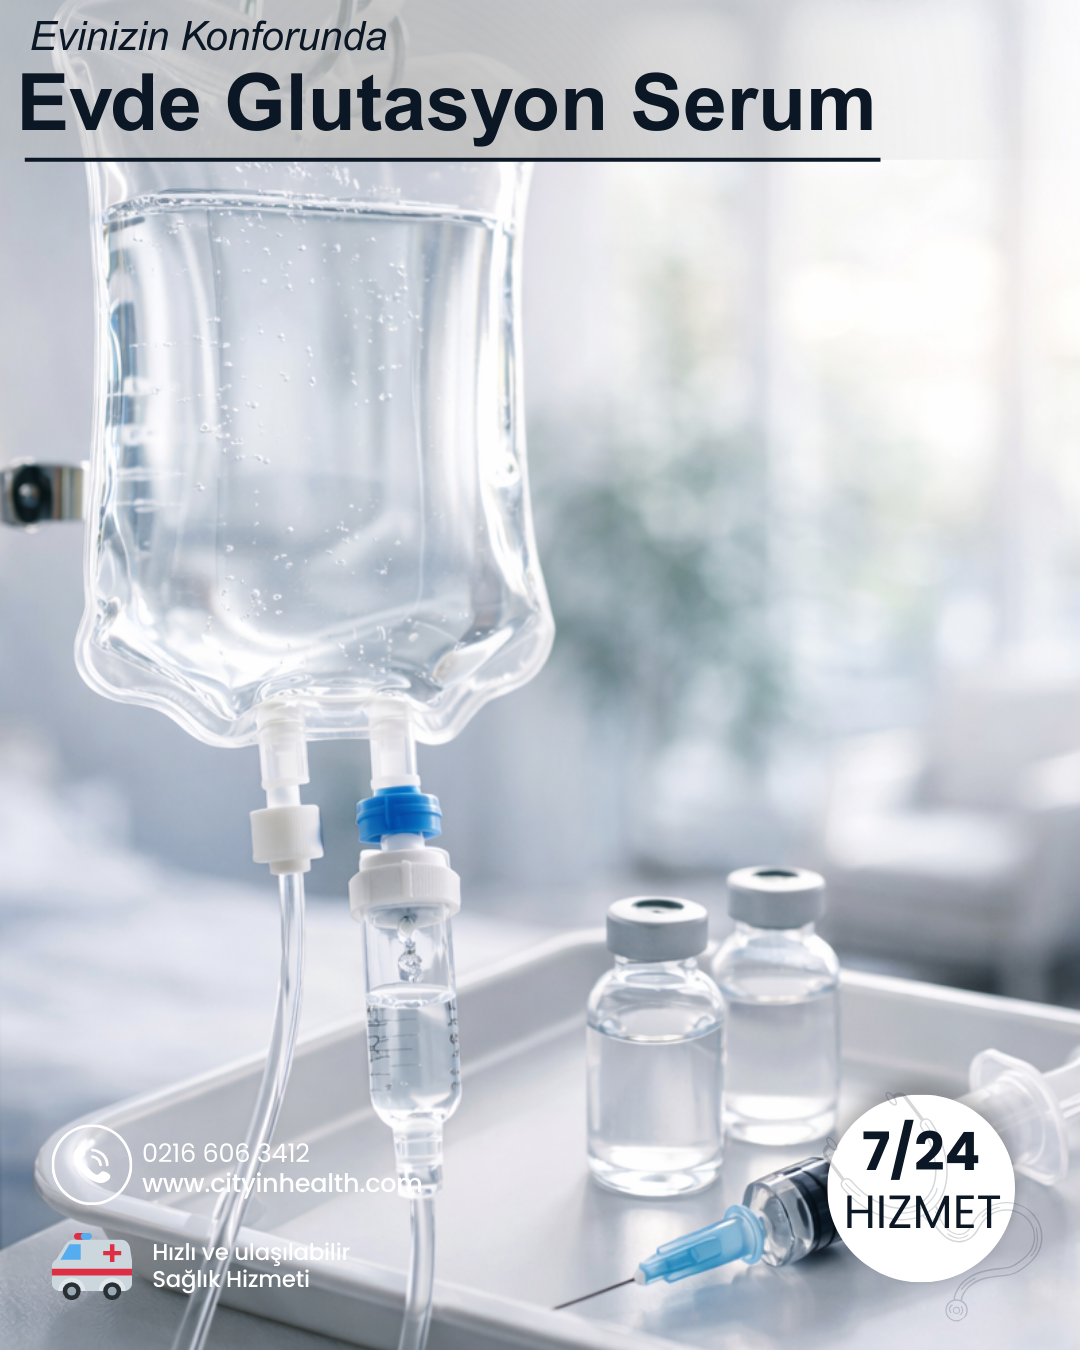
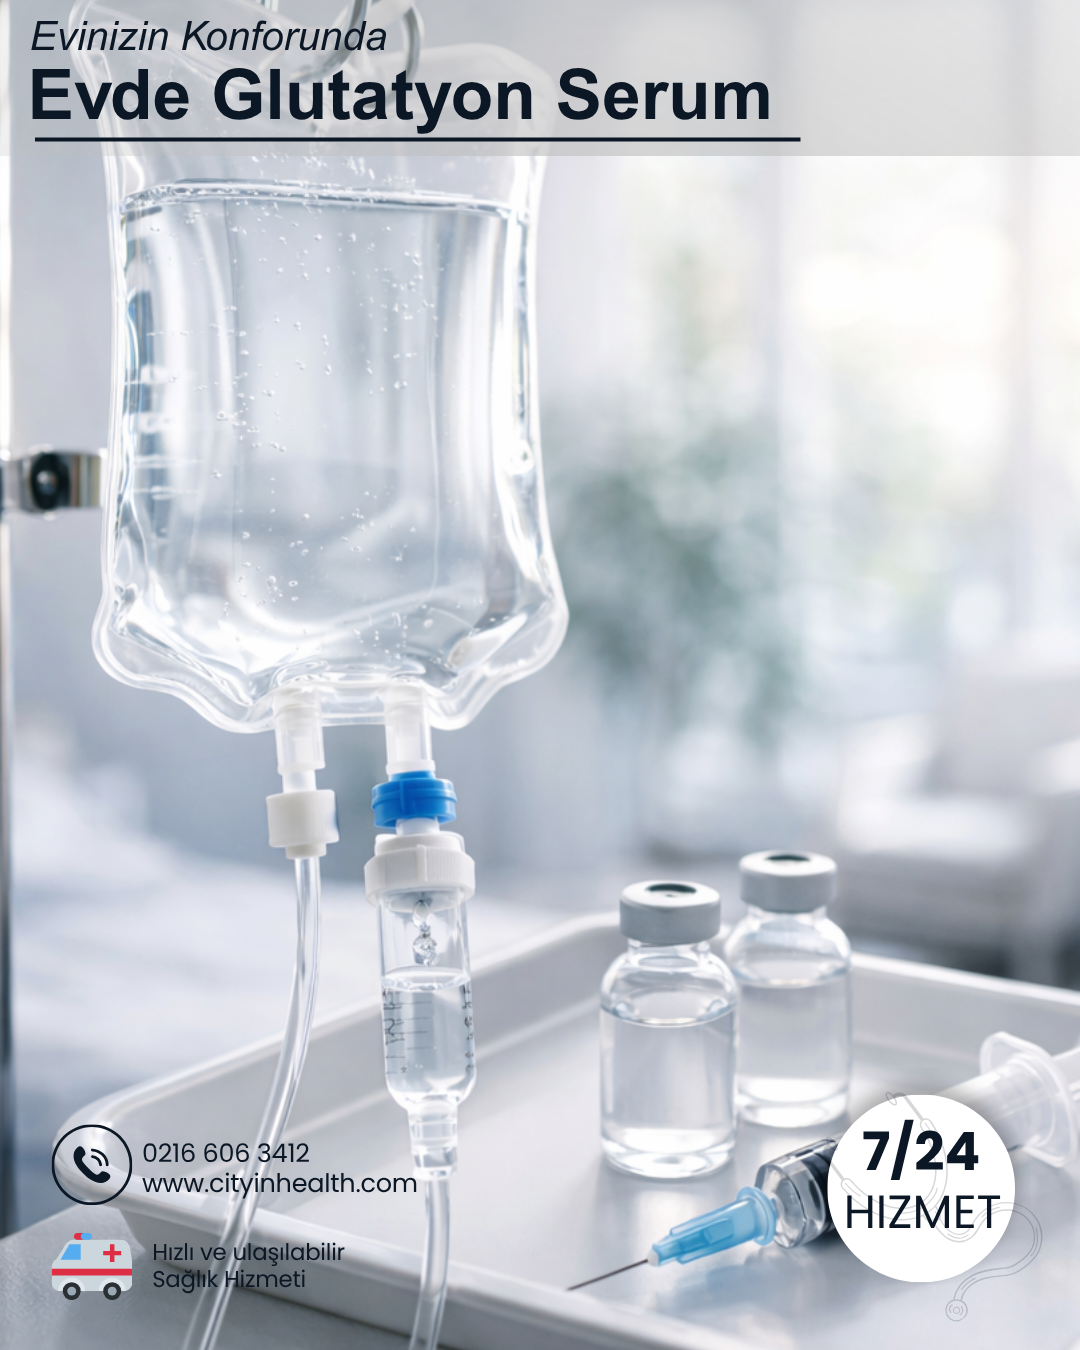
Yüksek tansiyon blog slug'ındaki Türkçe karakter hatası düzeltildi

diff --git a/lib/data/blog-posts-8.ts b/lib/data/blog-posts-8.ts
@@ -2,7 +2,7 @@ import { BlogPostData } from "./blog-posts";
 
 export const BLOG_POSTS_PART8: BlogPostData[] = [
     {
-        slug: "yuksek-tansiyon-evde-ne-yapmalı",
+        slug: "yuksek-tansiyon-evde-ne-yapmali",
         title: "Yüksek Tansiyon Krizinde Evde Ne Yapmalı? Acil Durumda Ev Hemşiresi Çağırmak",
         excerpt: "Tansiyonunuz yüksek ama ne yapacağınızı bilmiyor musunuz? Hipertansif urgency ile acil ayrımı, adım adım protokol, karar ağacı ve evde hemşire ne zaman çağrılmalı?",
         category: "Evde Doktor",